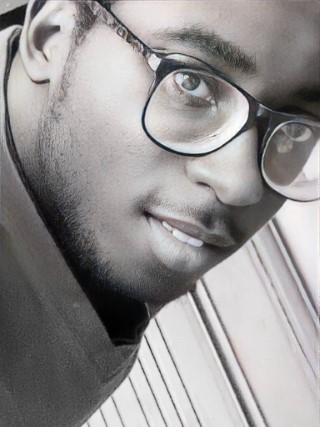
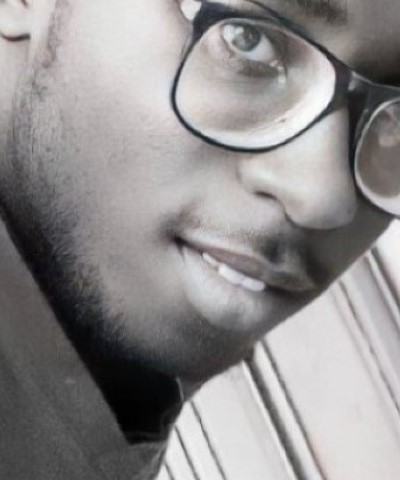
Create README.md

diff --git a/index.html b/index.html
@@ -25,7 +25,7 @@
             <h2 class="job-title slide-up" data-testid="jobTitle">Frontend Developer</h2>
             
             <p class="short-bio slide-up" data-testid="shortBio">
-              I'm a Software Developer who currently works as a Front-End Developer, specializing in building pixel-perfect, responsive, and user-centric interfaces. With expertise in modern technologies, a strong eye for detail, and a passion for continuous improvement, I focus on delivering visually appealing and high-performance applications. ✨
+              I'm a Front-End Developer, specializing in building pixel-perfect, responsive, and user-centric interfaces. With expertise in modern technologies, a strong eye for detail, and a passion for continuous improvement, I focus on delivering visually appealing and high-performance applications. ✨
             </p>
             
             <div class="info-item slide-up" data-testid="currentLocation">

diff --git a/styles.css b/styles.css
@@ -54,6 +54,8 @@ body {
 }
 
 .profile-picture img {
+  width: 100%;
+  height: 100%;
   object-fit: cover;
   transition: transform 0.5s ease;
 }
@@ -165,7 +167,7 @@ body {
 
   .profile-picture {
       width: 100%;
-      height: 300px;
+      height: auto;
   }
 
   .content-wrapper {
@@ -206,7 +208,7 @@ body {
   }
 
   .profile-picture {
-      height: 250px;
+      height: auto;
   }
 
   .desktop-picture {

diff --git a/README.md b/README.md
@@ -1,0 +1,18 @@
+# HNG Profile Card
+
+This project is a responsive personal profile webpage, built using HTML, CSS, and JavaScript. It showcases my technical skills, experience, and a short bio. The profile is designed to provide a clean, modern, and responsive user experience, ensuring it looks great on all devices, from mobile to desktop.
+
+## Features
+
+* **Responsive Design**
+* **Modern UI/UX**
+* **Interactive Elements**
+
+## Tech Stack
+
+* **HTML5**: For the structure and semantic layout of the profile.
+* **CSS3**: For responsive design, layout styling, and animations.
+* **JavaScript**: For interactivity and dynamic behaviors on the webpage.
+
+## View live 
+🔗 [Live Demo](https://hng-profile-card.vercel.app/)
